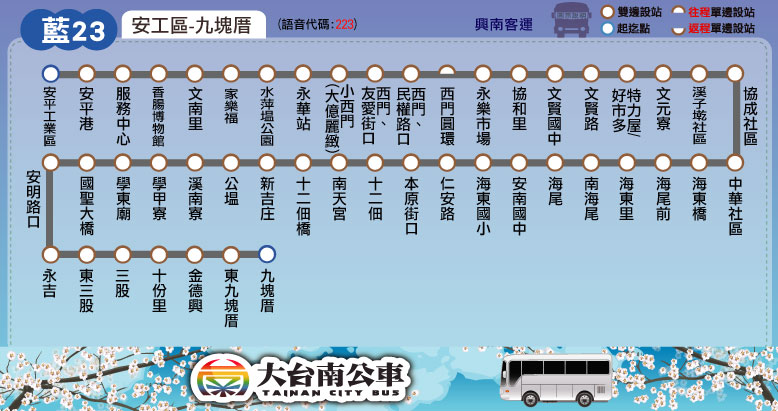
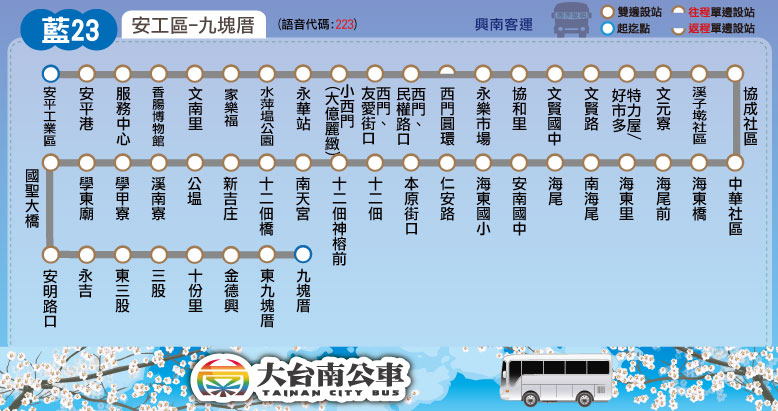
新增站位：藍23、藍24(「南天宮」招呼站更名為「十二佃神榕前」，並於「十二佃神榕前」站與「十二佃橋」中間增設「南天宮」)

diff --git a/route/fare_and_time/blue_24.js b/route/fare_and_time/blue_24.js
@@ -5,7 +5,7 @@ blue_24_interval_stop = [
 ["特力屋","文元寮","溪子墘社區","協成社區","中華社區","海東橋"], // 文元寮
 ["海尾前","海東里","南海尾","海尾"], // 海尾
 ["安南國中","海東國小","仁安路","本原街口"], // 本淵寮
-["十二佃","南天宮","十二佃橋"], // 十二佃
+["十二佃","十二佃神榕前","南天宮","十二佃橋"], // 十二佃
 ["新吉庄","公塭","溪南寮"], // 溪南寮
 ["學甲寮","學東廟","國聖大橋","安明路口"], // 學甲寮
 ["鹿耳門","溪埔仔","砂崙路口","土城國小","城東里","土城子","聖母廟"], // 土城子
@@ -26,7 +26,7 @@ blue_24_fare = [
 // format = [time at the start stop] or
 // [time, other] or
 // [time, start_stop, end_stop, other]
-blue_24_main_stop_name = ["安平<br />工業區","小西門<br />(大億麗緻)","永樂市場","特力屋","協成社區","海尾","海東國小","南天宮","國聖大橋","聖母廟","青草里"];
+blue_24_main_stop_name = ["安平<br />工業區","小西門<br />(大億麗緻)","永樂市場","特力屋/<br />好市多","協成社區","海尾","海東國小","南天宮","國聖大橋","聖母廟","青草里"];
 blue_24_main_stop_time_consume = [0, 11, 15, 22, 26, 32, 35, 42, 51, 60, 65];
 blue_24_important_stop = [0, 1, 6, 10]; // 安平工業區, 小西門(大億麗緻), 海東國小, 青草里
 //blue_24_selected_stop = [0,8,12,16,19,25,27,31,38,45,48]; // 安平工業區, 小西門(大億麗緻), 永樂市場, 特力屋、好市多, 協成社區, 海尾, 海東國小, 南天宮, 國聖大橋, 聖母廟, 青草里

diff --git a/route/fare_and_time/blue_23.js b/route/fare_and_time/blue_23.js
@@ -5,7 +5,7 @@ blue_23_interval_stop = [
 ["特力屋/好市多","文元寮","溪子墘社區","協成社區","中華社區","海東橋"], // 文元寮
 ["海尾前","海東里","南海尾","海尾"], // 海尾
 ["安南國中","海東國小","仁安路","本原街口"], // 本淵寮
-["十二佃","南天宮","十二佃橋"], // 十二佃
+["十二佃","十二佃神榕前","南天宮","十二佃橋"], // 十二佃
 ["新吉庄","公塭","溪南寮"], // 溪南寮
 ["學甲寮","學東廟","國聖大橋","安明路口"], // 學甲寮
 ["永吉"], // 永吉
